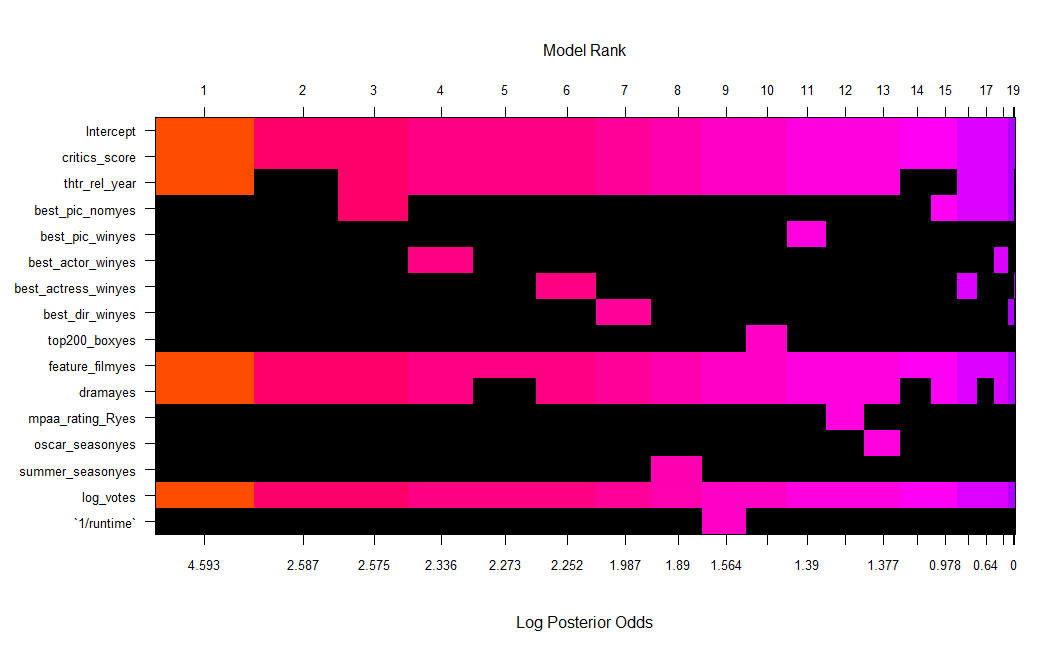
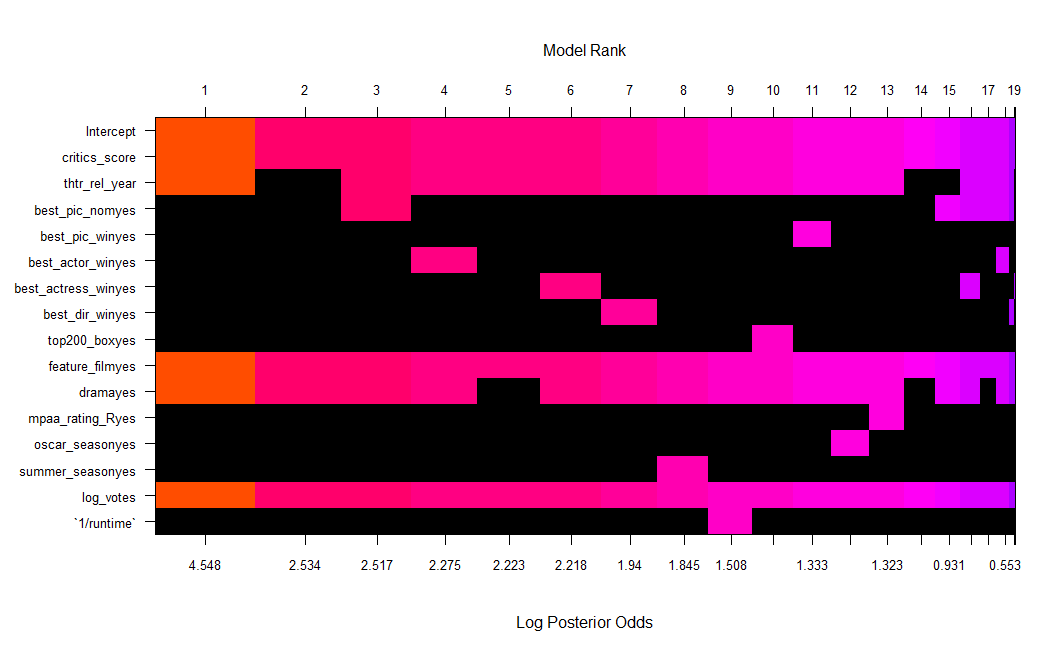
4th project "Bayesian Model Averaging for Movie Scores" (minor changes)

diff --git a/project4_bayesian.md b/project4_bayesian.md
@@ -37,11 +37,7 @@ Transform variables according to guidelines, describe dataset and
 perform EDA. Develop a Bayesian regression model to predict
 `audience_score` from the selected variables. Make a prediction for a
 previously unseen data (cf. [project
-<<<<<<< HEAD
 requirements](https://github.com/belovvadim/openintrostat-dataprojects/blob/main/requirements/info4_bayesian.md)).
-=======
-requirements](https://github.com/belovvadim/openintrostat-dataprojects/blob/main/requirements/info4_bayesian)).
->>>>>>> e52aa905ef579c3e829c745f73239c19e671d57c
 
 ### Load packages
 
@@ -1193,39 +1189,22 @@ round(summary(movies.BIC, n.models = 4), 3)
     ##                     P(B != 0 | Y)   model 1   model 2   model 3   model 4
     ## Intercept                   1.000     1.000     1.000     1.000     1.000
     ## critics_score               1.000     1.000     1.000     1.000     1.000
-<<<<<<< HEAD
     ## thtr_rel_year               0.871     1.000     0.000     1.000     1.000
-    ## best_pic_nomyes             0.140     0.000     0.000     1.000     0.000
-    ## best_pic_winyes             0.042     0.000     0.000     0.000     0.000
-    ## best_actor_winyes           0.091     0.000     0.000     0.000     1.000
-    ## best_actress_winyes         0.086     0.000     0.000     0.000     0.000
-    ## best_dir_winyes             0.066     0.000     0.000     0.000     0.000
-    ## top200_boxyes               0.042     0.000     0.000     0.000     0.000
-    ## feature_filmyes             1.000     1.000     1.000     1.000     1.000
-    ## dramayes                    0.897     1.000     1.000     1.000     1.000
-    ## mpaa_rating_Ryes            0.039     0.000     0.000     0.000     0.000
-=======
-    ## thtr_rel_year               0.870     1.000     0.000     1.000     1.000
-    ## best_pic_nomyes             0.140     0.000     0.000     1.000     0.000
+    ## best_pic_nomyes             0.139     0.000     0.000     1.000     0.000
     ## best_pic_winyes             0.041     0.000     0.000     0.000     0.000
-    ## best_actor_winyes           0.089     0.000     0.000     0.000     1.000
-    ## best_actress_winyes         0.086     0.000     0.000     0.000     0.000
+    ## best_actor_winyes           0.090     0.000     0.000     0.000     1.000
+    ## best_actress_winyes         0.087     0.000     0.000     0.000     0.000
     ## best_dir_winyes             0.065     0.000     0.000     0.000     0.000
     ## top200_boxyes               0.042     0.000     0.000     0.000     0.000
     ## feature_filmyes             1.000     1.000     1.000     1.000     1.000
     ## dramayes                    0.897     1.000     1.000     1.000     1.000
     ## mpaa_rating_Ryes            0.038     0.000     0.000     0.000     0.000
->>>>>>> e52aa905ef579c3e829c745f73239c19e671d57c
     ## oscar_seasonyes             0.039     0.000     0.000     0.000     0.000
     ## summer_seasonyes            0.065     0.000     0.000     0.000     0.000
     ## log_votes                   1.000     1.000     1.000     1.000     1.000
     ## `1/runtime`                 0.044     0.000     0.000     0.000     0.000
     ## BF                             NA     1.000     0.133     0.132     0.102
-<<<<<<< HEAD
-    ## PostProbs                      NA     0.404     0.054     0.054     0.042
-=======
-    ## PostProbs                      NA     0.407     0.055     0.054     0.041
->>>>>>> e52aa905ef579c3e829c745f73239c19e671d57c
+    ## PostProbs                      NA     0.406     0.054     0.053     0.042
     ## R2                             NA     0.552     0.545     0.554     0.554
     ## dim                            NA     6.000     5.000     7.000     7.000
     ## logmarg                        NA -3811.616 -3813.631 -3813.644 -3813.897
@@ -1332,11 +1311,7 @@ hpm <- which.max(movies.BIC$postprobs)
 round(movies.BIC$postprobs[[hpm]], 3)
 ```
 
-<<<<<<< HEAD
-    ## [1] 0.405
-=======
-    ## [1] 0.407
->>>>>>> e52aa905ef579c3e829c745f73239c19e671d57c
+    ## [1] 0.406
 
 ### Model Interpretation and Diagnostics
 
